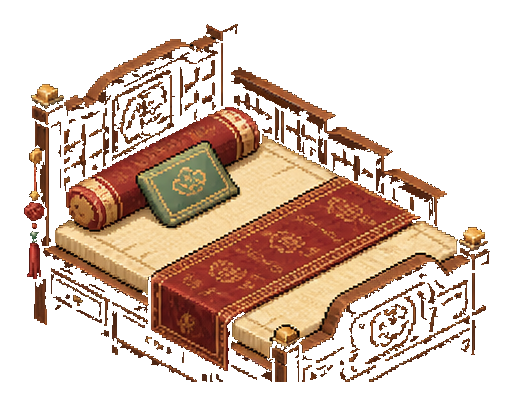
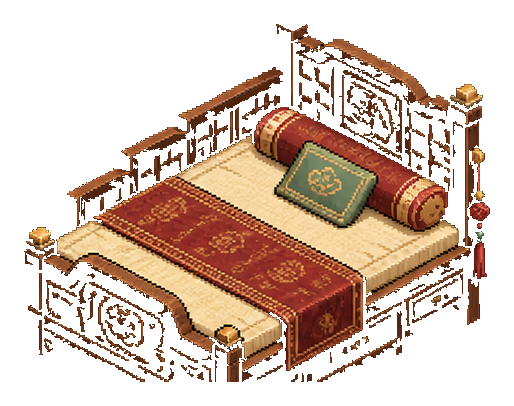
art: align bed art direction with footprint

diff --git a/scripts/generate_assets.py b/scripts/generate_assets.py
@@ -656,7 +656,10 @@ def apply_approved_style_sample():
         "furniture/decor/decor_vase.png": (1048, 478, 1492, 1002),
     }
     for rel, box in crops.items():
-        save(cut_sample_to_alpha(src.crop(box)), rel)
+        img = cut_sample_to_alpha(src.crop(box))
+        if rel == "furniture/bed/bed_basic.png":
+            img = ImageOps.mirror(img)
+        save(img, rel)
 
 
 def apply_home_asset_sheet_v2():
@@ -676,7 +679,10 @@ def apply_home_asset_sheet_v2():
         "furniture/decor/decor_candle.png": (1204, 520, 1390, 770),
     }
     for rel, box in crops.items():
-        save(cut_chroma_to_alpha(src.crop(box)), rel)
+        img = cut_chroma_to_alpha(src.crop(box))
+        if rel == "furniture/bed/bed_advanced.png":
+            img = ImageOps.mirror(img)
+        save(img, rel)
 
 
 def normalize_icon(img, size=96, inset=8):
